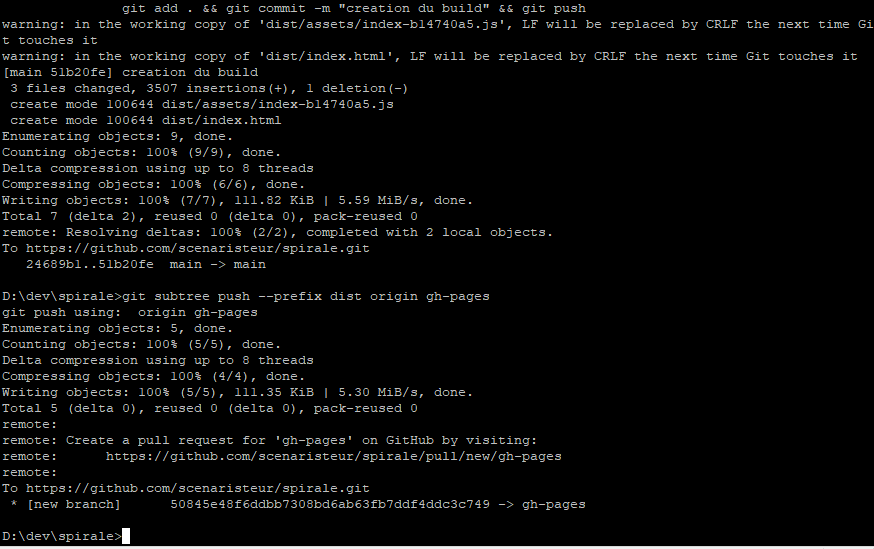
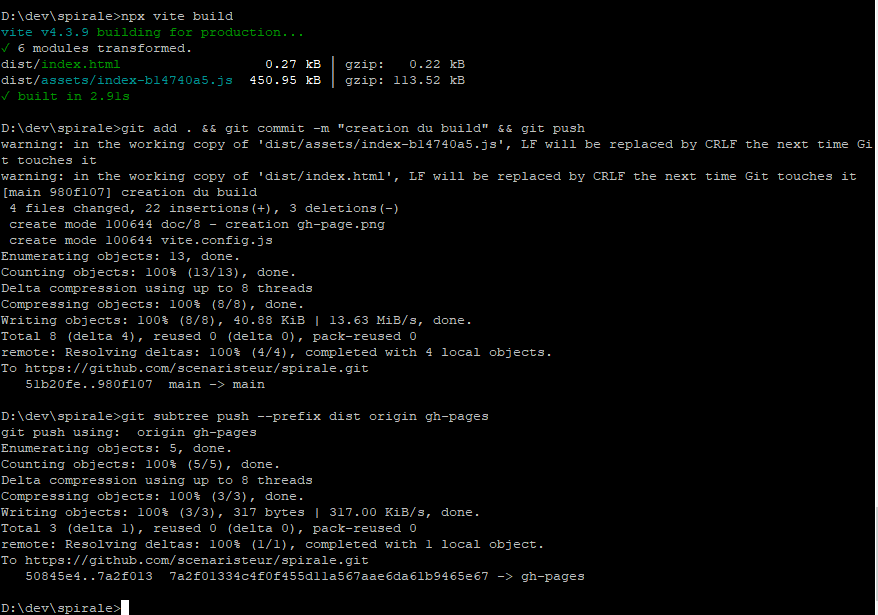
ajout scripts

Changed region(s): [[0.0, 0.0, 1.0, 1.0]]

diff --git a/README.md b/README.md
@@ -520,8 +520,70 @@ export default {
 - ensuite, je reprends ma formule magique https://github.com/scenaristeur/solid-vue-panes/tree/master#make-a-gh-pages-branches pour créer une sous branche avec ce dossier "/dist" : `git subtree push --prefix dist origin gh-pages`
 
 
-![click cube](/doc/8%20-%20creation%20gh-page.png)
+![creation gh-pages](/doc/8%20-%20creation%20gh-page.png)
 
 - sur github, tu devrais maintenant voir deux branches (cherche "main" si tu ne trouves pas ;-) ) . Pour terminer la publication, dans l'onglet "Settings", choisis dans le menu de gauche "Pages", 
+
+![settings](/doc/9%20-%20settings.png)
+
+et voilà, ton visuel 3D est en ligne, le mien est à cette adresse : https://scenaristeur.github.io/spirale/ 
+![online](/doc/10%20-%20online.png)
+
+tu peux copier son adresse et la mettre dans "About" à droite sur la page d'accueil de ton projet sur github pour qu'il soit plus facilement accessible.
+
+![settings](/doc/9%20-%20settings.png)
+
+# facilter la publication
+- pour faciliter la publication, tu peux créer des scripts dans package.json : 
+
+en dessous de tests : 
+```
+  "scripts": {
+    "test": "echo \"Error: no test specified\" && exit 1"
+  },
+  ```
+ajoute les lignes.
+```
+    "git": "npx vite build && git add . && git commit -m",
+    "postgit": "git push && git subtree push --prefix dist origin gh-pages"
+```
+
+Attention, n'oublie pas la virgule à la fin de la ligne commençant par "test". ça nous donne donc pour package.json: 
+```
+{
+  "name": "spirale",
+  "version": "1.0.0",
+  "description": "",
+  "main": "main.js",
+  "scripts": {
+    "test": "echo \"Error: no test specified\" && exit 1",
+    "git": "npx vite build && git add . && git commit -m",
+    "postgit": "git push && git subtree push --prefix dist origin gh-pages"
+  },
+  "keywords": [],
+  "author": "",
+  "license": "ISC",
+  "dependencies": {
+    "three": "^0.153.0"
+  },
+  "devDependencies": {
+    "vite": "^4.3.9"
+  }
+}
+
+```
+
+ceci te rajoute une nouvelle commande qui permet la publication, elle s'utilise de la manière suivante :
+ `npm run git -m "modification du package.json" `
+
+ le `-m "message de commit" ` est à adapter à chaque fois, mais c'est plus simple que build, add, commit, push ...
+
+
+
+
+
+
+
+
 
 
